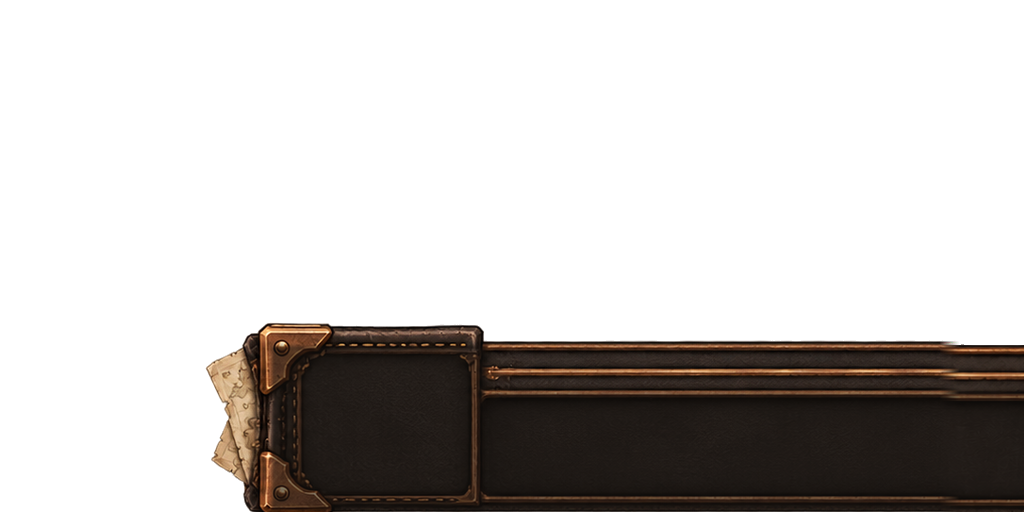
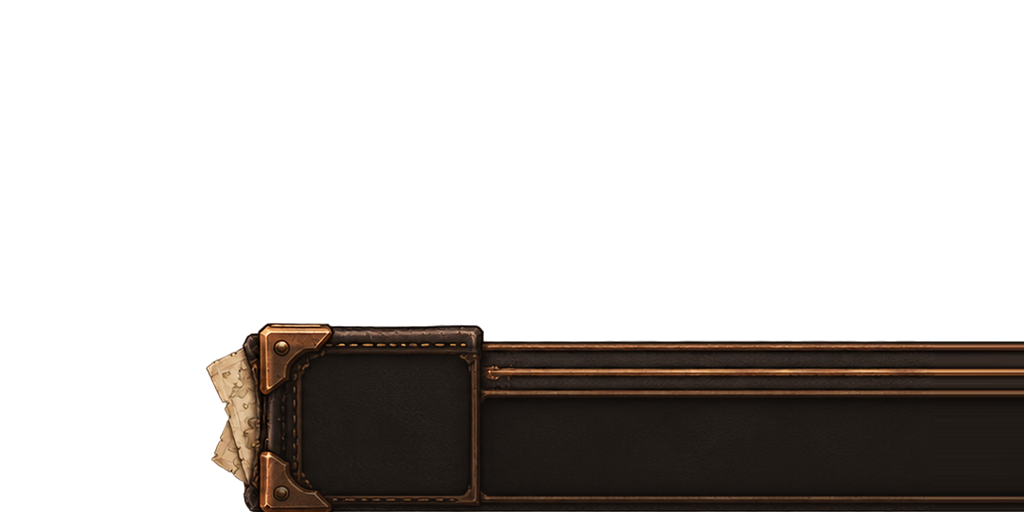
improved: Voyager and Observatory's bar is one clean piece when the minimap is top right
With the minimap moved to the top right, the two halves of the bar now join without a seam: the middle is rebuilt by stretching the bar across the join, so rails and grooves run straight through. Voyager's status bar grooves lose the arrow ornament at their inner end so the two bars meet cleanly.
Files: tools/painted/enforce.py (join_halves, bridge_centre, narrowBridge per look), Themes/Atlas/Style.lua, Atlas and Meridian closed bar pictures, Atlas status bar pictures

Changed region(s): [[0.9062, 0.6562, 1.0, 0.7812], [0.9062, 0.9688, 1.0, 1.0]]

diff --git a/tools/painted/enforce.py b/tools/painted/enforce.py
@@ -33,6 +33,7 @@ It prints a short report; a warning means the painting misses part of the layout
 
 import argparse
 import math
+import re
 import os
 
 from PIL import Image, ImageChops, ImageDraw, ImageFilter
@@ -106,7 +107,29 @@ def join_halves(img, m, cut):
         draw.line([(i, 0), (i, m.h)], fill=int(255 * (i + 1) / (feather + 1)))
     right.putalpha(ImageChops.multiply(right.getchannel('A'), ramp))
     out.alpha_composite(right, (int(round(centre)) - feather, 0))
-    return out
+    return bridge_centre(out, m)
+
+
+BRIDGE = 16  # art units each side of the centre rebuilt from the join's edge columns (a look's
+# Style.lua can widen it with narrowBridge, when its rails rise near the old centre panel)
+
+
+def bridge_centre(img, m):
+    """Cover the join by stretching the bar across it: every column in the band is a blend of the
+    column just left of it and the column just right of it. The two halves are mirror images, so
+    rails, grooves and edges run straight through with no seam or knot."""
+    import numpy as np
+
+    a = np.asarray(img).astype(np.float32)
+    centre = int(round(m.w / 2))
+    half = int(round(BRIDGE_UNITS * m.s))
+    x0, x1 = centre - half, centre + half
+    left = a[:, x0 - 1, :]
+    right = a[:, x1, :]
+    for i, x in enumerate(range(x0, x1)):
+        t = (i + 0.5) / (x1 - x0)
+        a[:, x, :] = left * (1 - t) + right * t
+    return Image.fromarray(a.clip(0, 255).astype(np.uint8))
 
 
 def narrow_centre(img, m):
@@ -190,6 +213,7 @@ def enforce_bottom(src, out_dir, bed, closed=False, narrow=False):
 
 
 NARROW = False
+BRIDGE_UNITS = BRIDGE
 
 
 def enforce_bottom_closed(src, out_dir, bed):
@@ -343,6 +367,10 @@ def main():
     if theme:
         style = open(os.path.join(ROOT, 'Themes', theme, 'Style.lua'), encoding='utf-8').read()
         NARROW = 'narrowCentre = true' in style
+        found = re.search(r'narrowBridge = (\d+)', style)
+        if found:
+            global BRIDGE_UNITS
+            BRIDGE_UNITS = int(found.group(1))
     else:
         NARROW = args.narrow
     bed = tuple(int(v) for v in args.bed.split(','))
